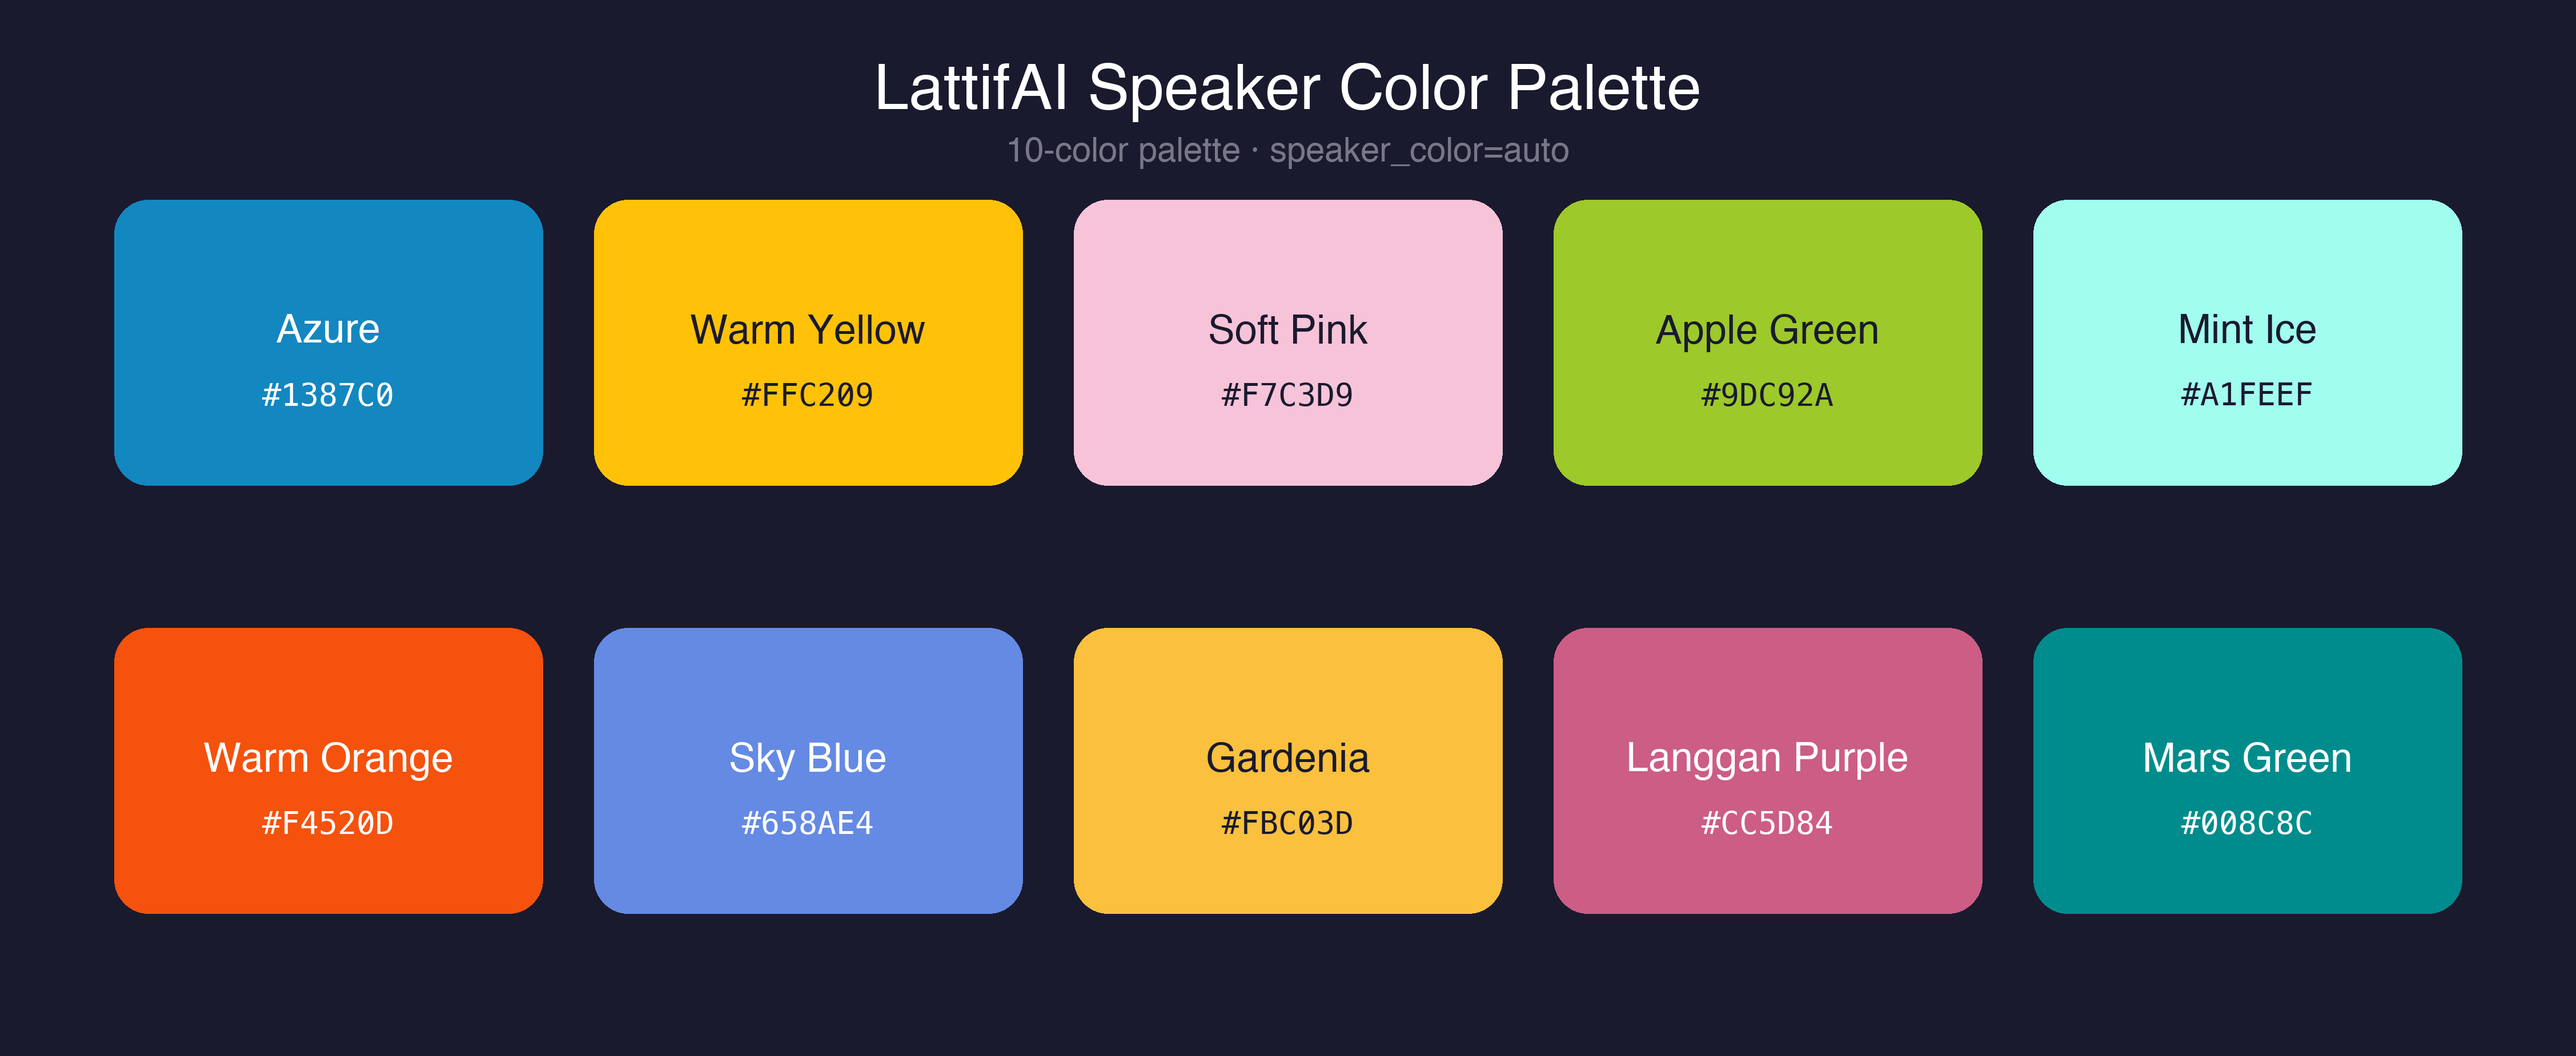
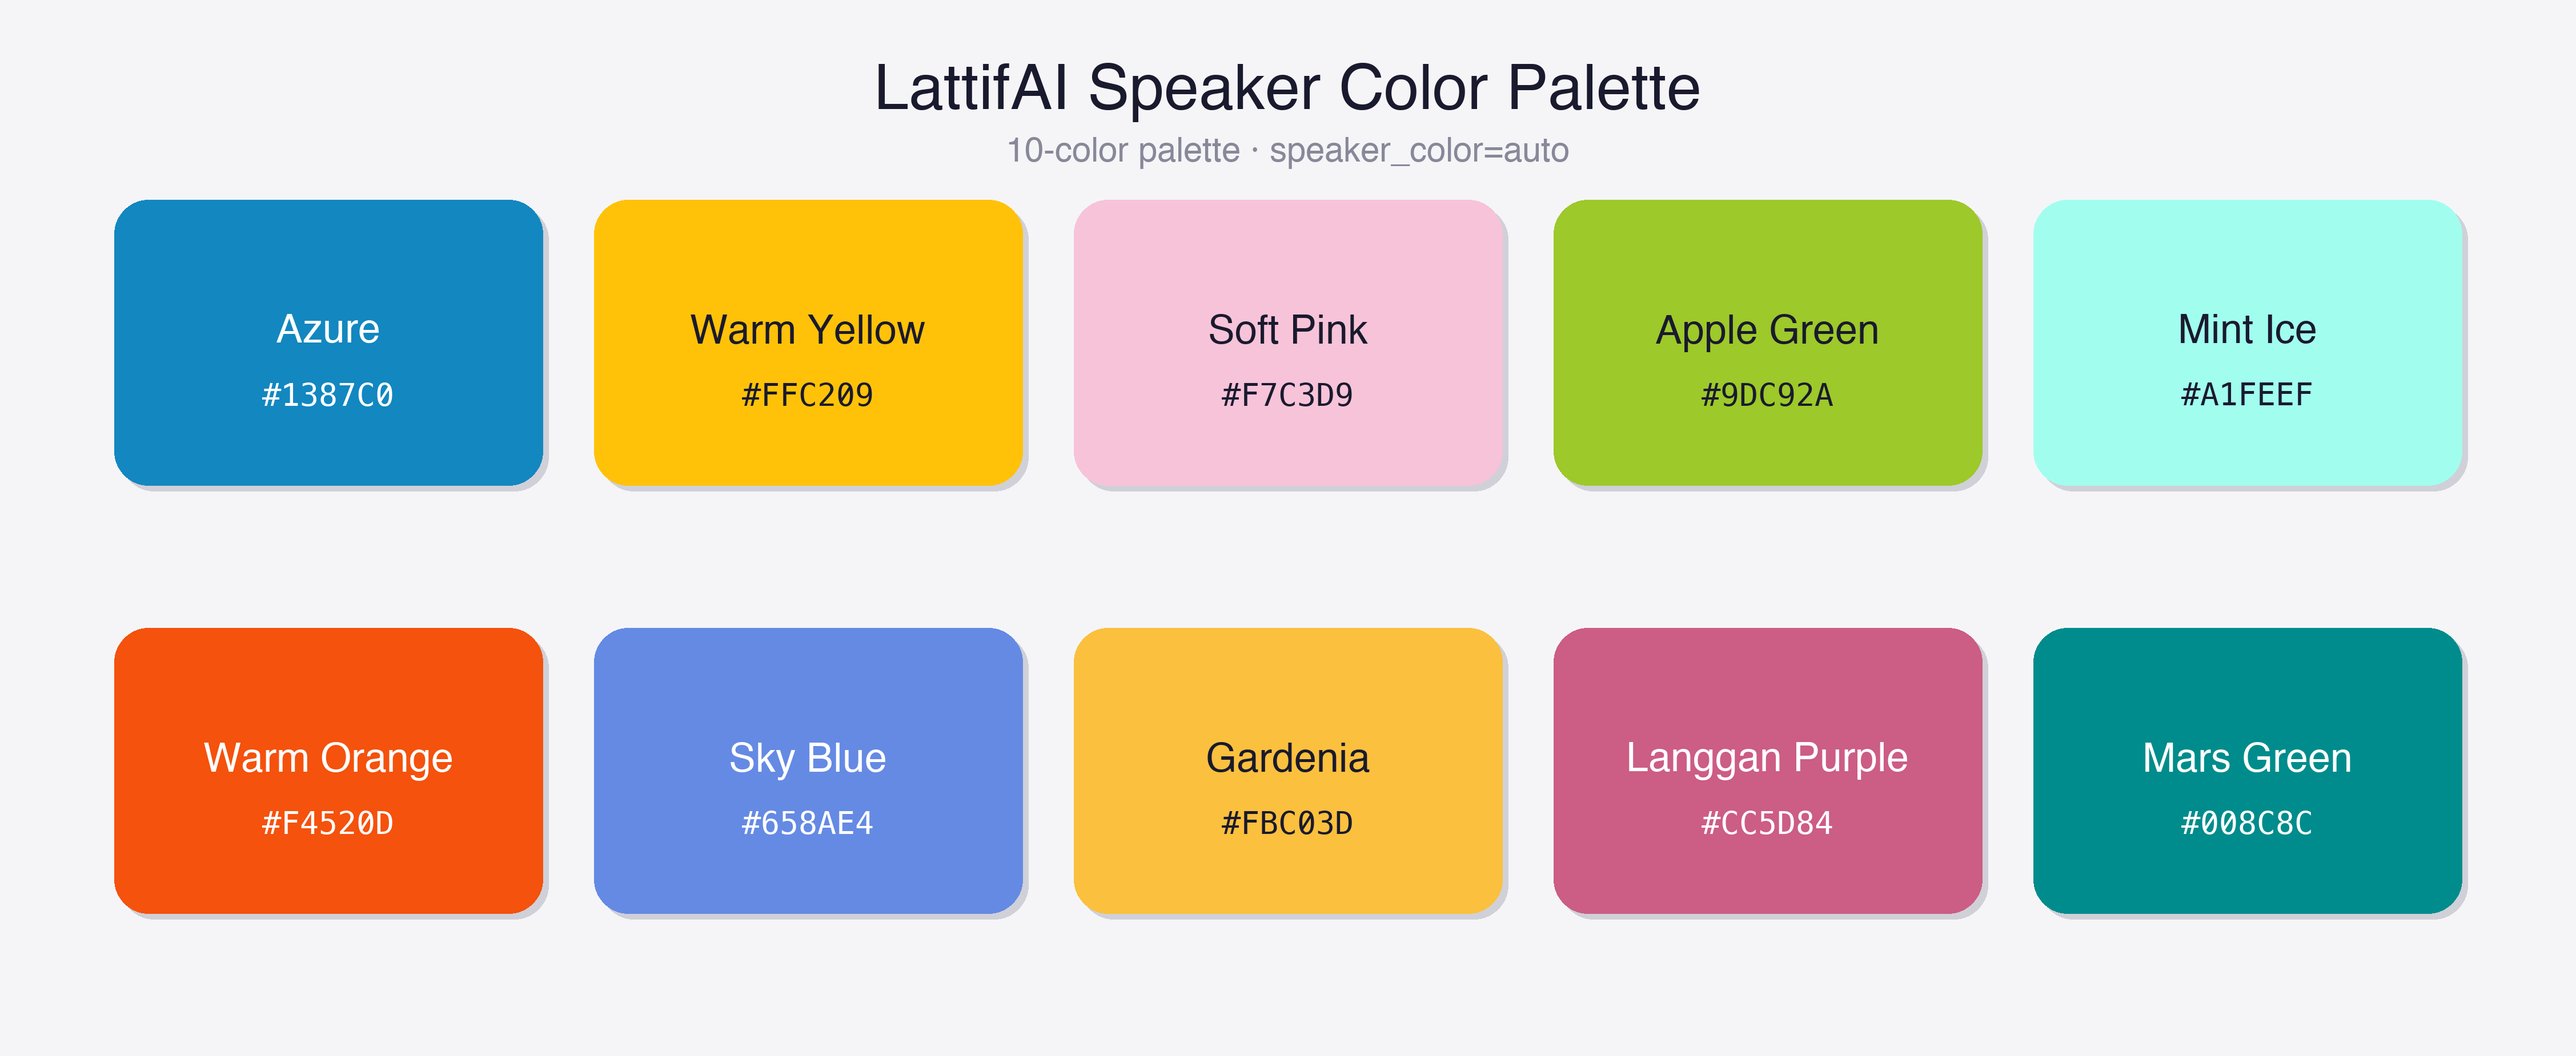
docs: update palette images and README with color scheme docs
- Rename preset→color_scheme in README and generate script
- Add speaker_color and karaoke.color_scheme documentation to README
- Fix china-red scheme: swap primary/secondary for proper red highlight
- Improve palette images: light background, pill-style swatches,
  labeled "文字色/高亮色/描边色", centered hex values, bold scheme names
- 4K resolution (5x scale) for all images

diff --git a/docs/generate-palette.py b/docs/generate-palette.py
@@ -1,5 +1,5 @@
 #!/usr/bin/env python
-"""Generate speaker color palette and karaoke preset preview images.
+"""Generate speaker color palette and karaoke color scheme preview images.
 
 Usage:
     python docs/generate-palette.py
@@ -33,19 +33,20 @@ SPEAKER_COLORS = [
 
 # ─── Karaoke presets ───────────────────────────────────────────────
 # Keep in sync with lattifai-captions config.py KARAOKE_PRESETS
+# Format: (key, cn_name, en_name, primary, secondary, outline, back)
 KARAOKE_PRESETS = [
-    ("azure-gold", "晴空金柠", "Azure Gold", "#FFFFFF", "#FFC209", "#1387C0"),
-    ("sakura-purple", "樱花紫鸢", "Sakura Purple", "#F7C3D9", "#7953B1", "#063C85"),
-    ("mint-ocean", "薄荷深海", "Mint Ocean", "#A1FEEF", "#658AE4", "#28314E"),
-    ("gardenia-green", "栀子碧山", "Gardenia Green", "#FFFFFF", "#9DC92A", "#77964A"),
-    ("sunset-warm", "暖阳橙光", "Sunset Warm", "#FAEDD1", "#F4520D", "#1387C0"),
-    ("prussian-elegant", "普鲁士蓝", "Prussian Blue", "#FFFFFF", "#FBC03D", "#003153"),
-    ("burgundy-classic", "勃艮第红", "Burgundy Classic", "#F7F2DF", "#CC5D84", "#800020"),
-    ("china-red", "提香红", "China Red", "#FFFFFF", "#FEA72E", "#B05923"),
-    ("mars-teal", "马尔斯绿", "Mars Teal", "#FFFFFF", "#008C8C", "#003153"),
-    ("spring-field", "春野绿", "Spring Field", "#FBFFF2", "#46B065", "#008E6B"),
-    ("navy-pink", "藏蓝樱粉", "Navy Pink", "#FFFFFF", "#F7C3D9", "#063C85"),
-    ("apricot-dark", "杏黄玄青", "Apricot Dark", "#FEA72E", "#F7F2DF", "#3A3C50"),
+    ("azure-gold", "晴空金柠", "Azure Gold", "#FFFFFF", "#FFC209", "#1387C0", "#0A3D5C"),
+    ("sakura-purple", "樱花紫鸢", "Sakura Purple", "#F7C3D9", "#7953B1", "#063C85", "#1A1A2E"),
+    ("mint-ocean", "薄荷深海", "Mint Ocean", "#A1FEEF", "#658AE4", "#28314E", "#0A0A1A"),
+    ("gardenia-green", "栀子碧山", "Gardenia Green", "#FFFFFF", "#9DC92A", "#77964A", "#1C2B1A"),
+    ("sunset-warm", "暖阳橙光", "Sunset Warm", "#FAEDD1", "#F4520D", "#1387C0", "#0A1628"),
+    ("prussian-elegant", "普鲁士蓝", "Prussian Blue", "#FFFFFF", "#FBC03D", "#003153", "#001A2C"),
+    ("burgundy-classic", "勃艮第红", "Burgundy Classic", "#F7F2DF", "#CC5D84", "#800020", "#2A000D"),
+    ("langgan-spring", "琅玕春辰", "Langgan Spring", "#C1D796", "#CC5D84", "#8A3A5A", "#2A1020"),
+    ("mars-teal", "马尔斯绿", "Mars Teal", "#FFFFFF", "#008C8C", "#003153", "#001A1A"),
+    ("spring-field", "春野绿", "Spring Field", "#FBFFF2", "#46B065", "#008E6B", "#0A2A1A"),
+    ("navy-pink", "藏蓝樱粉", "Navy Pink", "#FFFFFF", "#F7C3D9", "#063C85", "#021A3A"),
+    ("apricot-dark", "杏黄玄青", "Apricot Dark", "#FEA72E", "#F7F2DF", "#3A3C50", "#1A1A28"),
 ]
 
 # ─── Fonts ─────────────────────────────────────────────────────────
@@ -54,13 +55,21 @@ CJK_CANDIDATES = [
     "/System/Library/Fonts/Hiragino Sans GB.ttc",
     "/System/Library/Fonts/Supplemental/Songti.ttc",
 ]
+CJK_BOLD_CANDIDATES = [
+    "/System/Library/Fonts/STHeiti Medium.ttc",
+    "/System/Library/Fonts/Hiragino Sans GB.ttc",
+]
 MONO_FONT = "/System/Library/Fonts/Menlo.ttc"
 LATIN_FONT = "/System/Library/Fonts/Helvetica.ttc"
-BG = "#1A1A2E"
+BG = "#F5F5F8"
 
 
 def find_cjk_font():
     return next((f for f in CJK_CANDIDATES if os.path.exists(f)), None)
+
+
+def find_cjk_bold_font():
+    return next((f for f in CJK_BOLD_CANDIDATES if os.path.exists(f)), None)
 
 
 def load_font(path, size):
@@ -105,8 +114,8 @@ def generate_speaker(lang: str, out_path: Path, scale: int = 5):
 
     img = Image.new("RGB", (W, H), BG)
     draw = ImageDraw.Draw(img)
-    draw.text((W // 2, 22 * S), title, fill="#FFFFFF", font=ft_title, anchor="mt")
-    draw.text((W // 2, 48 * S), subtitle, fill="#777788", font=ft_sub, anchor="mt")
+    draw.text((W // 2, 22 * S), title, fill="#1A1A2E", font=ft_title, anchor="mt")
+    draw.text((W // 2, 48 * S), subtitle, fill="#888899", font=ft_sub, anchor="mt")
 
     sx = (W - cols * sw - (cols - 1) * px) // 2
     sy = 70 * S
@@ -114,6 +123,8 @@ def generate_speaker(lang: str, out_path: Path, scale: int = 5):
     for i, (hx, cn, en) in enumerate(SPEAKER_COLORS):
         c, r = i % cols, i // cols
         x, y = sx + c * (sw + px), sy + r * (sh + py)
+        # Add subtle shadow for depth on light background
+        draw.rounded_rectangle([x + 2 * S, y + 2 * S, x + sw + 2 * S, y + sh + 2 * S], radius=12 * S, fill="#D0D0D8")
         draw.rounded_rectangle([x, y, x + sw, y + sh], radius=12 * S, fill=hx)
         tc = text_color(hx)
         cx = x + sw // 2
@@ -132,25 +143,27 @@ def generate_karaoke(lang: str, out_path: Path, scale: int = 5):
 
     ft_title = load_font(cjk if zh else LATIN_FONT, 22 * S)
     ft_sub = load_font(cjk if zh else LATIN_FONT, 12 * S)
-    ft_preset_name = load_font(cjk, 13 * S)  # Always CJK — shows Chinese name in both langs
-    ft_sample = load_font(cjk if zh else LATIN_FONT, 16 * S)
-    ft_label = load_font(LATIN_FONT, 10 * S)
-    ft_hex = load_font(MONO_FONT, 9 * S)
+    cjk_bold = find_cjk_bold_font() or cjk
+    ft_scheme_name = load_font(cjk_bold, 14 * S)  # Bold CJK — scheme name below card
+    ft_sample = load_font(cjk if zh else LATIN_FONT, 18 * S)
+    ft_label = load_font(LATIN_FONT, 11 * S)
+    ft_hex = load_font(MONO_FONT, 10 * S)
+    ft_swatch_label = load_font(cjk if zh else LATIN_FONT, 9 * S)
 
-    title = "LattifAI 卡拉OK配色方案" if zh else "LattifAI Karaoke Color Presets"
-    subtitle = "karaoke.preset=<name> · 8 套预设配色" if zh else "karaoke.preset=<name> · 8 presets"
+    title = "LattifAI 卡拉OK配色方案" if zh else "LattifAI Karaoke Color Schemes"
+    subtitle = "karaoke.color_scheme=<name> · 12 套配色方案" if zh else "karaoke.color_scheme=<name> · 12 schemes"
 
     cols = 4
-    cw, ch = 230 * S, 130 * S
-    px, py = 14 * S, 56 * S
+    cw, ch = 260 * S, 160 * S
+    px, py = 14 * S, 46 * S
     W = cols * cw + (cols - 1) * px + 80 * S
     rows = (len(KARAOKE_PRESETS) + cols - 1) // cols
     H = 70 * S + rows * (ch + py)
 
     img = Image.new("RGB", (W, H), BG)
     draw = ImageDraw.Draw(img)
-    draw.text((W // 2, 22 * S), title, fill="#FFFFFF", font=ft_title, anchor="mt")
-    draw.text((W // 2, 48 * S), subtitle, fill="#777788", font=ft_sub, anchor="mt")
+    draw.text((W // 2, 22 * S), title, fill="#1A1A2E", font=ft_title, anchor="mt")
+    draw.text((W // 2, 48 * S), subtitle, fill="#888899", font=ft_sub, anchor="mt")
 
     sx = (W - cols * cw - (cols - 1) * px) // 2
     sy = 70 * S
@@ -158,15 +171,19 @@ def generate_karaoke(lang: str, out_path: Path, scale: int = 5):
     sample_unsung = "Hello 你好" if zh else "Hello World"
     sample_sung = "World 世界" if zh else "Karaoke"
 
-    for i, (key, cn, en, primary, secondary, outline) in enumerate(KARAOKE_PRESETS):
+    for i, (key, cn, en, primary, secondary, outline, back) in enumerate(KARAOKE_PRESETS):
         c, r = i % cols, i // cols
         x, y = sx + c * (cw + px), sy + r * (ch + py)
 
-        # Card background (dark, simulating video)
-        draw.rounded_rectangle([x, y, x + cw, y + ch], radius=12 * S, fill="#0D0D1A")
+        # Card background: use back_color (each scheme's designed shadow tone)
+        # Lighten it slightly so it's not too dark for a preview card
+        br, bg_, bb = int(back[1:3], 16), int(back[3:5], 16), int(back[5:7], 16)
+        card_bg = f"#{min(br + 40, 255):02x}{min(bg_ + 40, 255):02x}{min(bb + 40, 255):02x}"
+        draw.rounded_rectangle([x + 3 * S, y + 3 * S, x + cw + 3 * S, y + ch + 3 * S], radius=12 * S, fill="#C0C0C8")
+        draw.rounded_rectangle([x, y, x + cw, y + ch], radius=12 * S, fill=card_bg)
 
-        # Outline border to hint the outline color
-        draw.rounded_rectangle([x, y, x + cw, y + ch], radius=12 * S, outline=outline, width=2 * S)
+        # Border from secondary color for visual pop
+        draw.rounded_rectangle([x, y, x + cw, y + ch], radius=12 * S, outline=secondary, width=2 * S)
 
         cx = x + cw // 2
 
@@ -185,25 +202,35 @@ def generate_karaoke(lang: str, out_path: Path, scale: int = 5):
         draw.text((tx, ty), sample_unsung, fill=primary, font=ft_sample)
         draw.text((tx + unsung_w + gap, ty), sample_sung, fill=secondary, font=ft_sample)
 
-        # Color swatches row, centered
-        sw_y = y + 66 * S
-        sw_sz = 14 * S
-        swatch_gap = 60 * S
-        total_sw_w = 3 * (sw_sz + 4 * S + draw.textlength("#FFFFFF", ft_hex)) + 2 * (
-            swatch_gap - sw_sz - 4 * S - draw.textlength("#FFFFFF", ft_hex)
-        )
-        # Simpler: just compute total width of 3 swatches at fixed spacing
-        total_sw_w = 2 * swatch_gap + sw_sz + draw.textlength("#FFFFFF", ft_hex) + 4 * S
-        sw_start_x = x + (cw - total_sw_w) // 2
-        labels = [("P", primary), ("S", secondary), ("O", outline)]
-        for j, (lbl, clr) in enumerate(labels):
-            lx = sw_start_x + j * swatch_gap
-            draw.rounded_rectangle([lx, sw_y, lx + sw_sz, sw_y + sw_sz], radius=3 * S, fill=clr)
-            draw.text((lx + sw_sz + 4 * S, sw_y + 1 * S), clr, fill="#777788", font=ft_hex)
+        # Color swatch bars — 3 rounded pills with full label + hex
+        zh_labels = ["文字色", "高亮色", "描边色"]
+        en_labels = ["Text", "Highlight", "Outline"]
+        bar_y = y + 78 * S
+        bar_h = 28 * S
+        bar_gap = 6 * S
+        bar_w = (cw - 2 * 12 * S - 2 * bar_gap) // 3
+        labels_colors = list(zip(zh_labels if zh else en_labels, [primary, secondary, outline]))
+        for j, (lbl, clr) in enumerate(labels_colors):
+            bx = x + 12 * S + j * (bar_w + bar_gap)
+            draw.rounded_rectangle([bx, bar_y, bx + bar_w, bar_y + bar_h], radius=4 * S, fill=clr)
+            tc = "#1A1A2E" if luma(clr) > 120 else "#FFFFFF"
+            bcx = bx + bar_w // 2
+            bcy = bar_y + bar_h // 2
+            draw.text((bcx, bcy), clr, fill=tc, font=ft_hex, anchor="mm")
+            # Label above the bar — use white for visibility on any card bg
+            draw.text((bcx, bar_y - 3 * S), lbl, fill="#DDDDEE", font=ft_swatch_label, anchor="mb")
 
-        # Preset name below card (always show both zh + en)
-        draw.text((cx, y + ch + 6 * S), cn, fill="#BBBBCC", font=ft_preset_name, anchor="mt")
-        draw.text((cx, y + ch + 22 * S), key, fill="#555566", font=ft_label, anchor="mt")
+        # Scheme name below card
+        # Ensure text is readable on light page background: darken light colors
+        sr, sg, sb = int(secondary[1:3], 16), int(secondary[3:5], 16), int(secondary[5:7], 16)
+        name_color = secondary if luma(secondary) < 180 else f"#{sr*2//3:02x}{sg*2//3:02x}{sb*2//3:02x}"
+        dim = (
+            f"#{sr*2//3:02x}{sg*2//3:02x}{sb*2//3:02x}"
+            if luma(secondary) < 180
+            else f"#{sr//2:02x}{sg//2:02x}{sb//2:02x}"
+        )
+        draw.text((cx, y + ch + 8 * S), cn, fill=name_color, font=ft_scheme_name, anchor="mt")
+        draw.text((cx, y + ch + 26 * S), key, fill=dim, font=ft_label, anchor="mt")
 
     img.save(out_path, "PNG")
     print(f"Saved: {out_path} ({W}x{H})")

diff --git a/README.md b/README.md
@@ -437,6 +437,7 @@ caption = client.youtube(
 | `normalize_text` | `True` | Clean HTML entities and special characters |
 | `include_speaker_in_text` | `True` | Include speaker labels in text output |
 | `translation_first` | `False` | Place translation above original in bilingual output |
+| `speaker_color` | `""` | Speaker name color in ASS output: `""` (off), `"auto"` (10-color palette), `"#RRGGBB"`, or comma-separated list |
 
 ```python
 from lattifai.client import LattifAI
@@ -663,6 +664,48 @@ JSON is the most flexible format for storing caption data with full word-level t
 | **ASS** | One word per segment | `{\kf}` karaoke tags (sweep effect) |
 | **LRC** | One word per line | Enhanced `<timestamp>` tags |
 | **TTML** | One word per `<p>` element | `<span>` with `itunes:timing="Word"` |
+
+#### Speaker Colors
+
+The `speaker_color` option colorizes speaker names in ASS output (works with both karaoke and non-karaoke modes):
+
+| Value | Behavior |
+|-------|----------|
+| `""` (default) | No speaker coloring |
+| `"auto"` | Assigns from a built-in 10-color palette |
+| `"#RRGGBB"` | Single color for all speakers |
+| `"#RRGGBB,#00BFFF,..."` | Comma-separated list, one per speaker (cycles if more speakers than colors) |
+
+![Speaker Palette](docs/speaker-palette-en.png)
+
+```bash
+# Auto-color speakers in ASS output
+lai caption convert input.json output.ass \
+    include_speaker_in_text=true \
+    speaker_color=auto
+
+# Custom single color
+lai caption convert input.json output.ass \
+    include_speaker_in_text=true \
+    speaker_color="#1387C0"
+```
+
+#### Karaoke Color Schemes
+
+Use `karaoke.color_scheme` to apply a predefined color scheme for karaoke ASS output. Each scheme sets `primary_color`, `secondary_color`, `outline_color`, and `back_color`.
+
+12 schemes available: `azure-gold`, `sakura-purple`, `mint-ocean`, `gardenia-green`, `sunset-warm`, `prussian-elegant`, `burgundy-classic`, `langgan-spring`, `mars-teal`, `spring-field`, `navy-pink`, `apricot-dark`
+
+![Karaoke Color Schemes](docs/karaoke-presets-en.png)
+
+```bash
+# Karaoke with color scheme + auto speaker colors
+lai caption convert input.json output.ass \
+    word_level=true \
+    karaoke.enabled=true \
+    karaoke.color_scheme=azure-gold \
+    speaker_color=auto
+```
 
 ### VTT Format (YouTube VTT Support)
 
